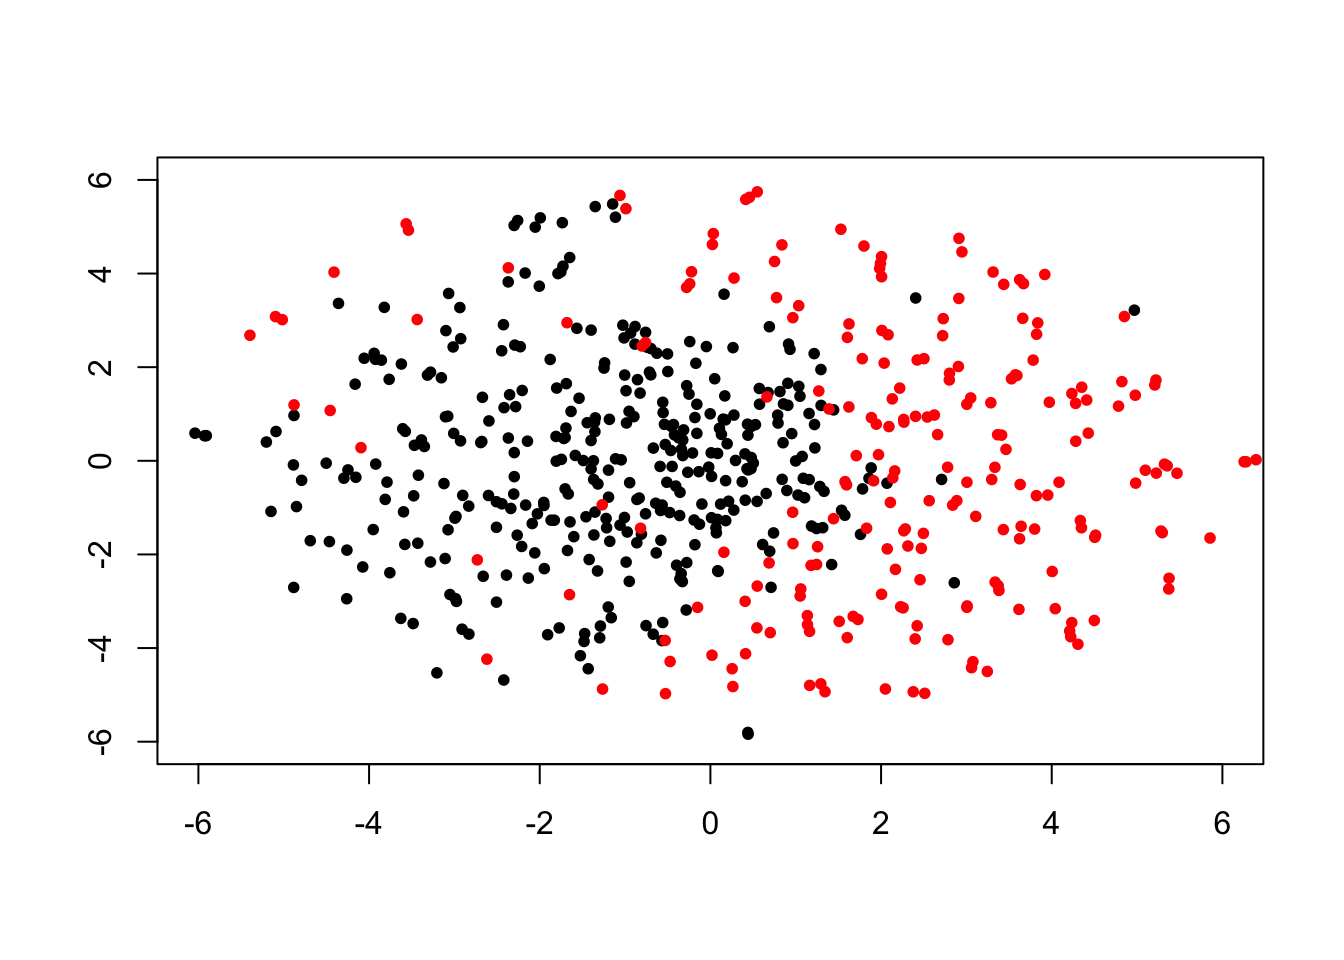
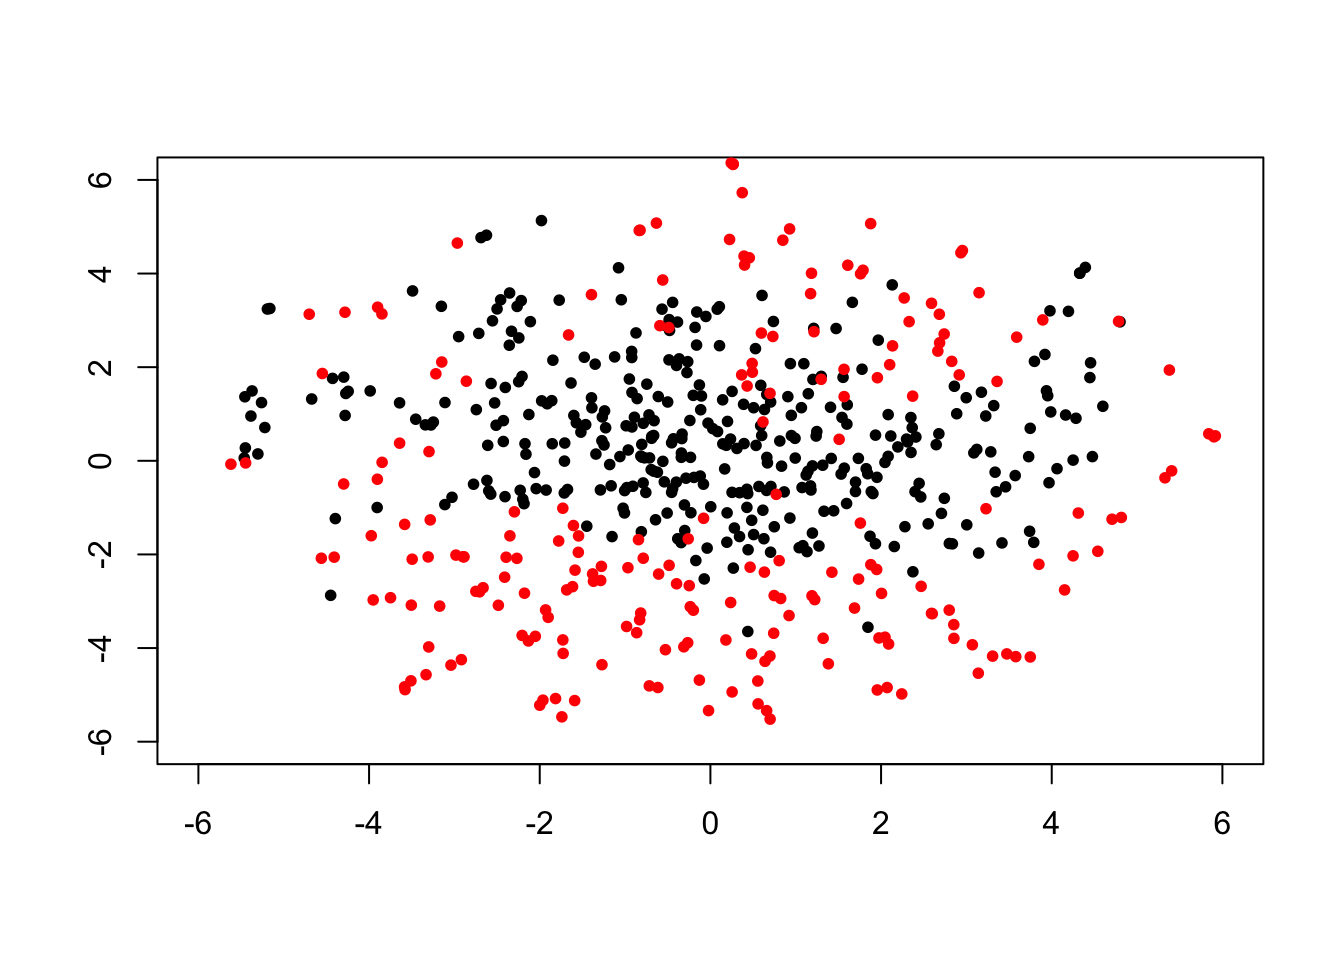
if lubridate not installed

diff --git a/Tutorial2.html b/Tutorial2.html
@@ -408,8 +408,8 @@ qnorm(.975, 0, 1)
 pnorm(1.96, 0, 1)
 #&gt; [1] 0.9750021
 rnorm(10, 0, 1)
-#&gt;  [1]  1.24108848  0.06548462  0.18835911 -0.94653978 -0.65942574
-#&gt;  [6]  0.75876490 -0.33677839 -0.72915435 -1.68676190  0.27001090
+#&gt;  [1]  0.53209402 -0.13263053  0.69989882  0.40800797  1.03467739
+#&gt;  [6]  1.69081700  0.93634575 -0.07849017 -0.67668258  0.41703984
 
 x&lt;- rnorm(100000, 0, 1)
 hist(x, freq = F, ylim = c(0, .5))
@@ -424,8 +424,8 @@ qbeta(.975, 1, 2)
 pbeta(0.5, 1, 2)
 #&gt; [1] 0.75
 rbeta(10, 1, 2)
-#&gt;  [1] 0.64585356 0.05265792 0.64357964 0.50169891 0.43602391 0.39859553
-#&gt;  [7] 0.20548519 0.06728200 0.34020248 0.36302699</code></pre>
+#&gt;  [1] 0.49082942 0.07917689 0.49001273 0.30305234 0.21792756 0.30265485
+#&gt;  [7] 0.25286902 0.51872782 0.56254605 0.15683740</code></pre>
 <p>E.g. Gamma distribution</p>
 <pre class="r"><code>dgamma(10, 5)
 #&gt; [1] 0.01891664
@@ -434,8 +434,8 @@ qgamma(.5, 5)
 pgamma(10, 5)
 #&gt; [1] 0.9707473
 rgamma(10, 5)
-#&gt;  [1] 4.302396 4.860272 2.515214 5.016404 4.870570 6.733920 5.352234
-#&gt;  [8] 2.764803 5.835245 5.459239</code></pre>
+#&gt;  [1] 2.947596 5.904625 5.052970 2.230920 3.578478 6.111055 2.600024
+#&gt;  [8] 1.612654 6.702127 3.684440</code></pre>
 <p>Other commonly used distributions</p>
 <ul>
 <li>Uniform (<code>dunif</code>, <code>qunif</code>, <code>punif</code>, <code>runif</code>)</li>
@@ -562,7 +562,7 @@ predict(lm_step, input)
 <pre class="r"><code>(.packages())
 #&gt; [1] &quot;stats&quot;     &quot;graphics&quot;  &quot;grDevices&quot; &quot;utils&quot;     &quot;datasets&quot;  &quot;methods&quot;  
 #&gt; [7] &quot;base&quot;</code></pre>
-<p>Loading packages which are already installed.</p>
+<p>You can use <code>library</code> to load packages which are already installed.</p>
 <p>Example: Single-Layer Neurual Network</p>
 <pre class="r"><code>library(nnet)
 
@@ -576,16 +576,17 @@ test_dat&lt;- iris[test_ind,]
 
 nn_model&lt;- nnet(Species ~., linout = T, size = 5, data = train_dat)
 #&gt; # weights:  43
-#&gt; initial  value 140.869538 
-#&gt; iter  10 value 67.797899
-#&gt; iter  20 value 8.081480
-#&gt; iter  30 value 5.711318
-#&gt; iter  40 value 5.313589
-#&gt; iter  50 value 4.790873
-#&gt; iter  60 value 4.750015
-#&gt; iter  70 value 4.749532
-#&gt; iter  80 value 4.749507
-#&gt; final  value 4.749481 
+#&gt; initial  value 163.110572 
+#&gt; iter  10 value 53.318740
+#&gt; iter  20 value 7.189069
+#&gt; iter  30 value 4.761067
+#&gt; iter  40 value 4.385471
+#&gt; iter  50 value 3.430206
+#&gt; iter  60 value 3.412761
+#&gt; iter  70 value 3.153460
+#&gt; iter  80 value 3.133331
+#&gt; iter  90 value 3.132863
+#&gt; final  value 3.132863 
 #&gt; converged
 
 pred_nn&lt;- predict(nn_model, test_dat, type = &#39;class&#39;)
@@ -593,8 +594,8 @@ pred_nn&lt;- predict(nn_model, test_dat, type = &#39;class&#39;)
 ## Accuracy
 table(test_dat$Species == pred_nn) / nrow(test_dat)
 #&gt; 
-#&gt;      FALSE       TRUE 
-#&gt; 0.03333333 0.96666667</code></pre>
+#&gt;     FALSE      TRUE 
+#&gt; 0.1666667 0.8333333</code></pre>
 <p>Example: Decision Tree</p>
 <pre class="r"><code>library(rpart)
 
@@ -616,16 +617,16 @@ exp_dat&lt;- read.table(url, sep = &quot;,&quot;, header = F)
 
 tsne_res&lt;- tsne(exp_dat[, 3:32], perplexity = 100)
 #&gt; sigma summary: Min. : 0.38658523478823 |1st Qu. : 0.61806546548001 |Median : 0.648107496657062 |Mean : 0.651623332613159 |3rd Qu. : 0.67963590493686 |Max. : 1.05004711205922 |
-#&gt; Epoch: Iteration #100 error is: 14.5450876393316
-#&gt; Epoch: Iteration #200 error is: 1.01168237837721
-#&gt; Epoch: Iteration #300 error is: 0.984728888723997
-#&gt; Epoch: Iteration #400 error is: 0.982557743992572
-#&gt; Epoch: Iteration #500 error is: 0.982008761820144
-#&gt; Epoch: Iteration #600 error is: 0.982008760916459
-#&gt; Epoch: Iteration #700 error is: 0.982008760916459
-#&gt; Epoch: Iteration #800 error is: 0.982008760916459
-#&gt; Epoch: Iteration #900 error is: 0.982008760916459
-#&gt; Epoch: Iteration #1000 error is: 0.982008760916459
+#&gt; Epoch: Iteration #100 error is: 15.2660206611211
+#&gt; Epoch: Iteration #200 error is: 1.01921346284769
+#&gt; Epoch: Iteration #300 error is: 1.01023684696447
+#&gt; Epoch: Iteration #400 error is: 1.00171720167899
+#&gt; Epoch: Iteration #500 error is: 1.00165419802791
+#&gt; Epoch: Iteration #600 error is: 1.00165419793708
+#&gt; Epoch: Iteration #700 error is: 1.00165419793708
+#&gt; Epoch: Iteration #800 error is: 1.00165419793708
+#&gt; Epoch: Iteration #900 error is: 1.00165419793708
+#&gt; Epoch: Iteration #1000 error is: 1.00165419793708
 
 plot(tsne_res[which(exp_dat$V2 == &quot;B&quot;), ], col = 1, pch = 20, xlim = c(-6, 6), ylim = c(-6, 6), xlab = &quot;&quot;, ylab = &quot;&quot;)
 points(tsne_res[which(exp_dat$V2 == &quot;M&quot;), ], col = 2, pch = 20)</code></pre>
